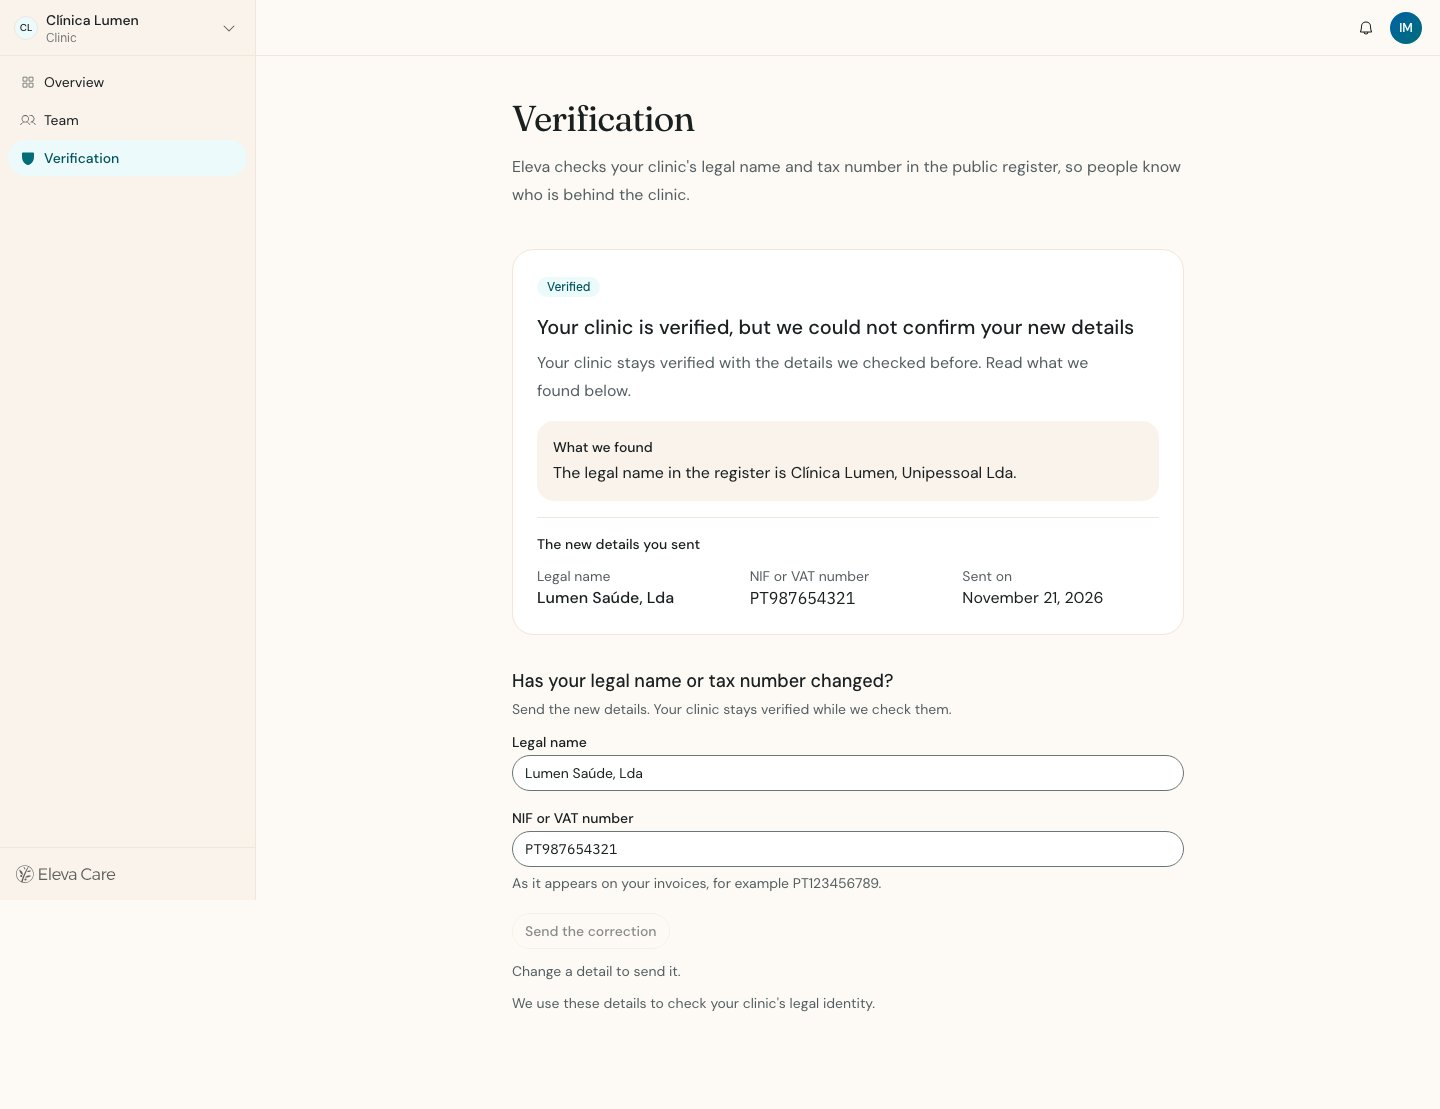
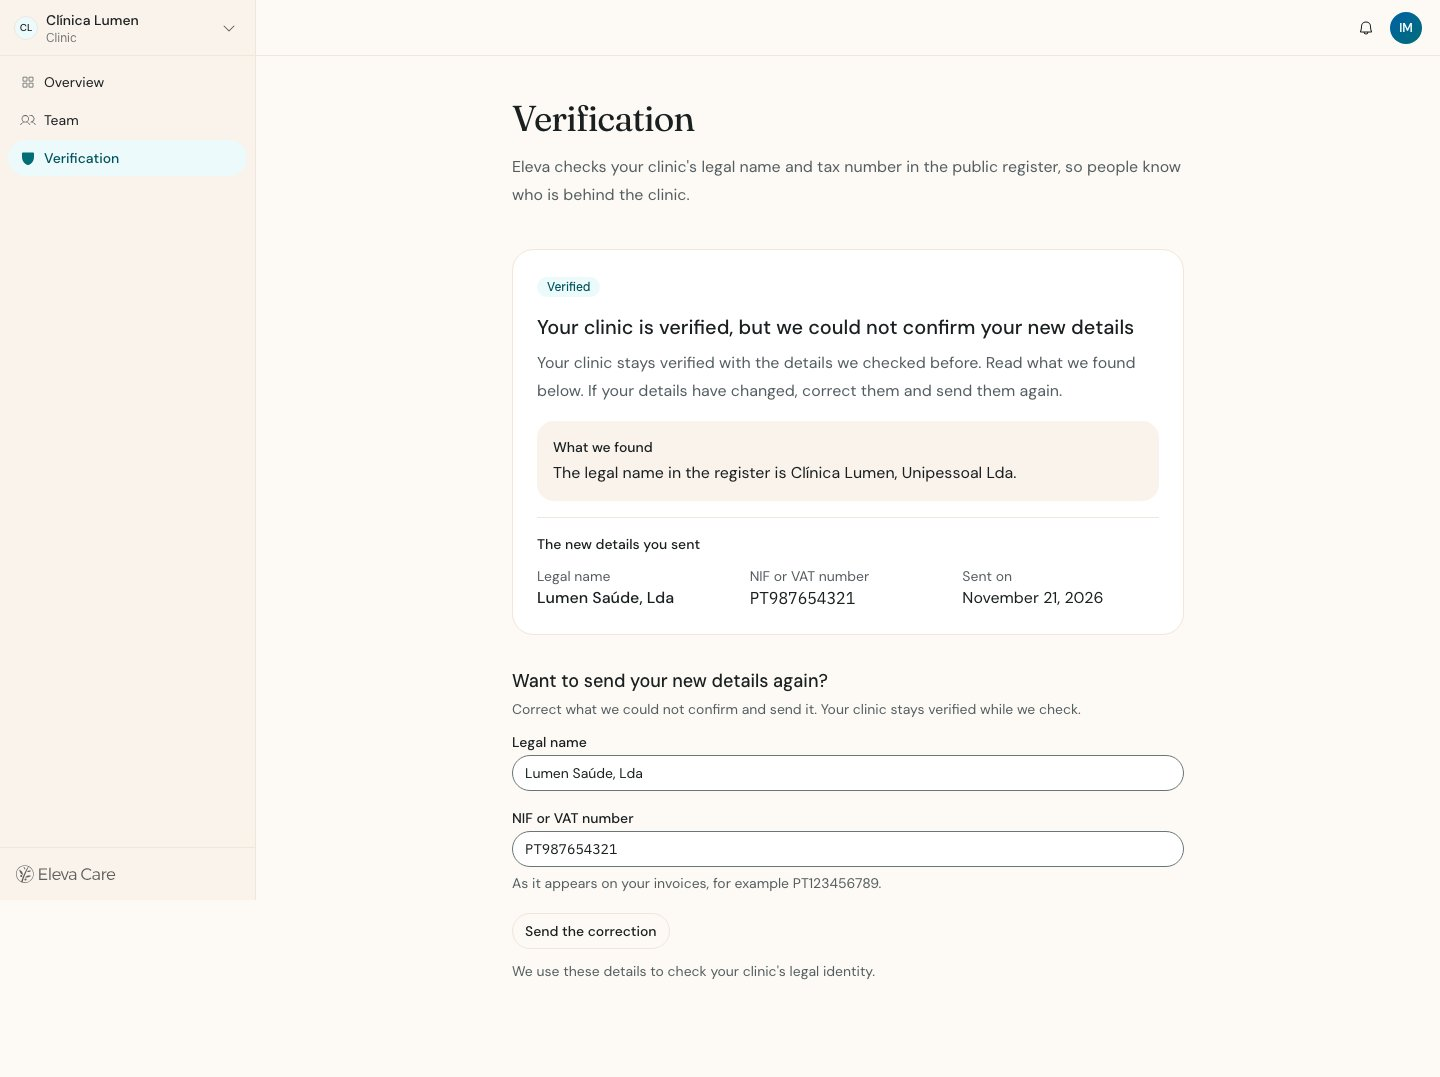
fix(p11): the same details can be sent again after staff ask for a change (11.4)
The unchanged check applied to every open filing, so a clinic sent back
for something outside the two fields could not answer. It now applies only
while staff are checking. The standing title shows its focus ring, the
hint is read before the button, and the refused state says what to do.

diff --git a/apps/team/src/app/team/[orgSlug]/verification/verification-form.tsx b/apps/team/src/app/team/[orgSlug]/verification/verification-form.tsx
@@ -15,6 +15,7 @@ type FieldError = "legal-name" | "invalid-tax-id"
 export function VerificationForm({
   sent,
   prefill,
+  waitForChange,
   intent,
   primary,
   focusAfterSendId,
@@ -23,6 +24,11 @@ export function VerificationForm({
   sent: { legalName: string; taxId: string } | null
   /** Start from what was sent, ready to correct. */
   prefill: boolean
+  /**
+   * Staff are checking these details right now: sending them again
+   * unchanged would only move the clinic to the back of the queue.
+   */
+  waitForChange: boolean
   /** First details, a correction of what was sent, or new details. */
   intent: "first" | "correction" | "new"
   /** Sending details is the next step on the page. */
@@ -38,9 +44,11 @@ export function VerificationForm({
   const nameRef = React.useRef<HTMLInputElement>(null)
   const taxIdRef = React.useRef<HTMLInputElement>(null)
   const unchangedId = React.useId()
-  // Sending the same details again would only move the clinic to the back
-  // of the queue: the button waits for a change.
+  // Only while a check is running. After staff asked for a change or
+  // refused, the same details can be sent again: what they asked for may be
+  // somewhere else (the billing address, a register updated since).
   const unchanged =
+    waitForChange &&
     sent !== null &&
     legalName.trim() === sent.legalName &&
     normalizeClinicTaxId(taxId) === sent.taxId
@@ -158,6 +166,16 @@ export function VerificationForm({
         </Alert>
       ) : null}
       <div className="space-y-3">
+        {/* Before the button, so it is read before the button it explains. */}
+        {unchanged ? (
+          <p
+            id={unchangedId}
+            className="text-sm text-muted-foreground"
+            data-testid="verification-unchanged"
+          >
+            {t("unchanged")}
+          </p>
+        ) : null}
         <Button
           type="submit"
           variant={primary ? "default" : "outline"}
@@ -174,15 +192,6 @@ export function VerificationForm({
                 ? t("sendNew")
                 : t("sendCorrection")}
         </Button>
-        {unchanged ? (
-          <p
-            id={unchangedId}
-            className="text-sm text-muted-foreground"
-            data-testid="verification-unchanged"
-          >
-            {t("unchanged")}
-          </p>
-        ) : null}
         <p className="text-sm text-muted-foreground">{t("use")}</p>
       </div>
     </form>

diff --git a/apps/team/src/app/team/[orgSlug]/verification/page.tsx b/apps/team/src/app/team/[orgSlug]/verification/page.tsx
@@ -79,7 +79,7 @@ export default async function TeamVerificationPage({
             <h2
               id={STANDING_TITLE_ID}
               tabIndex={-1}
-              className="text-xl font-medium text-foreground outline-none"
+              className="rounded-sm text-xl font-medium text-foreground outline-none focus-visible:ring-2 focus-visible:ring-ring/50"
             >
               {t(`standing.${standing}.title`)}
             </h2>
@@ -156,11 +156,17 @@ export default async function TeamVerificationPage({
                 ? t("form.heading")
                 : waiting
                   ? t("form.headingCorrect")
-                  : t("form.headingChanged")}
+                  : standing === "verified-new-rejected"
+                    ? t("form.headingRefused")
+                    : t("form.headingChanged")}
             </h2>
             {formFirst ? null : (
               <p className="text-sm text-muted-foreground">
-                {waiting ? t("form.correctHelp") : t("form.changedHelp")}
+                {waiting
+                  ? t("form.correctHelp")
+                  : standing === "verified-new-rejected"
+                    ? t("form.refusedHelp")
+                    : t("form.changedHelp")}
               </p>
             )}
           </div>
@@ -173,6 +179,7 @@ export default async function TeamVerificationPage({
                 : null
             }
             prefill={prefill}
+            waitForChange={waiting}
             intent={
               standing === "not-sent"
                 ? "first"

diff --git a/e2e/team-verification.spec.ts b/e2e/team-verification.spec.ts
@@ -179,8 +179,9 @@ test.describe("Phase 11.4 — the clinic's Verification page", () => {
     await shot(phone, "15-verification-change-needed.mobile")
     await phone.context().close()
 
-    // Asked to change something: the button waits for a change.
-    await expect(page.getByTestId("verification-send")).toBeDisabled()
+    // Staff asked for a change: the details can be sent again as they are
+    // (what was asked may be elsewhere), or corrected first.
+    await expect(page.getByTestId("verification-send")).toBeEnabled()
     await page
       .getByTestId("verification-legal-name")
       .fill("Clínica Lumen, Unipessoal Lda")
@@ -248,6 +249,12 @@ test.describe("Phase 11.4 — the clinic's Verification page", () => {
     await expect(page.getByTestId("verification-legal-name")).toHaveValue(
       "Lumen Saúde, Lda"
     )
+    await expect(page.getByTestId("verification-send")).toBeEnabled()
+    await expect(
+      page.getByRole("heading", {
+        name: "Want to send your new details again?",
+      })
+    ).toBeVisible()
     await shot(page, "18-verification-verified-new-rejected.desktop")
     await page.context().close()
   })

diff --git a/packages/auth/src/clinics.ts b/packages/auth/src/clinics.ts
@@ -292,10 +292,17 @@ export async function fileClinicVerification(input: {
         .limit(1)
       let id: string
       if (open) {
-        // The same details again change nothing for staff, and would only
-        // send the filing to the back of the queue (it is checked oldest
-        // first) and make a decision in progress answer "changed".
-        if (open.legalName === legalName && open.taxId === taxId) {
+        // While staff are checking, the same details again change nothing
+        // for them, and would only send the filing to the back of the queue
+        // (it is checked oldest first) and make a decision in progress
+        // answer "changed". Once staff asked for a change, the same details
+        // can be sent again: what they asked for may be outside these two
+        // fields (the billing address, a register that was not yet updated).
+        if (
+          open.status === "pending" &&
+          open.legalName === legalName &&
+          open.taxId === taxId
+        ) {
           throw new ClinicError("VERIFICATION_UNCHANGED")
         }
         const [row] = await tx

diff --git a/packages/auth/src/__tests__/clinic-review.integration.test.ts b/packages/auth/src/__tests__/clinic-review.integration.test.ts
@@ -253,6 +253,17 @@ describe.skipIf(!enabled || !databaseUrl)(
       )
     })
 
+    it("lets the clinic send the same details again once staff asked for a change", async () => {
+      // What staff asked for may be outside the two fields: the same legal
+      // name and number are accepted, and the filing is undecided again.
+      const again = await file("Review Clinic, Lda", "PT 515 001 708")
+      const [row] = await db()
+        .select({ status: main.clinicVerifications.status })
+        .from(main.clinicVerifications)
+        .where(eq(main.clinicVerifications.id, again.id))
+      expect(row?.status).toBe("pending")
+    })
+
     it("approves the refiled identity: the clinic is verified", async () => {
       const refiled = await file("Review Clinic Unipessoal, Lda", "515001708")
       // Refiling makes it undecided again: the earlier staff stamp is gone.

diff --git a/docs/eleva-v3/decision-log.md b/docs/eleva-v3/decision-log.md
@@ -47,10 +47,16 @@ Each entry should include:
   verified. A verified clinic is always told it stays verified.
 - A malformed number is refused next to the field with what a valid one
   looks like; spaces, dots and dashes are accepted and dropped.
-- The same details cannot be sent twice. The button waits for a change,
-  and the API answers 409 `VERIFICATION_UNCHANGED` without writing, so a
-  filing keeps its place in the staff queue (oldest first) and a decision
-  in progress is not made stale. The button reads "Send for checking",
+- While staff are checking, the same details cannot be sent again. The
+  button waits for a change, and the API answers 409
+  `VERIFICATION_UNCHANGED` without writing, so a filing keeps its place in
+  the staff queue (oldest first) and a decision in progress is not made
+  stale. Once staff asked for a change or refused, the same details can be
+  sent again: what they asked for may be outside the two fields (the
+  billing address, a register updated since), and sending again is the
+  clinic's only way to answer a refusal today. Stated limit: the comparison
+  is exact, so changing a comma moves a filing to the back of the queue;
+  there is no minimum time between two sends. The button reads "Send for checking",
   "Send the correction" or "Send new details" by standing, and is the main
   action only when sending is the next step.
 - Under a "Verified" pill the details are captioned: "The details we
